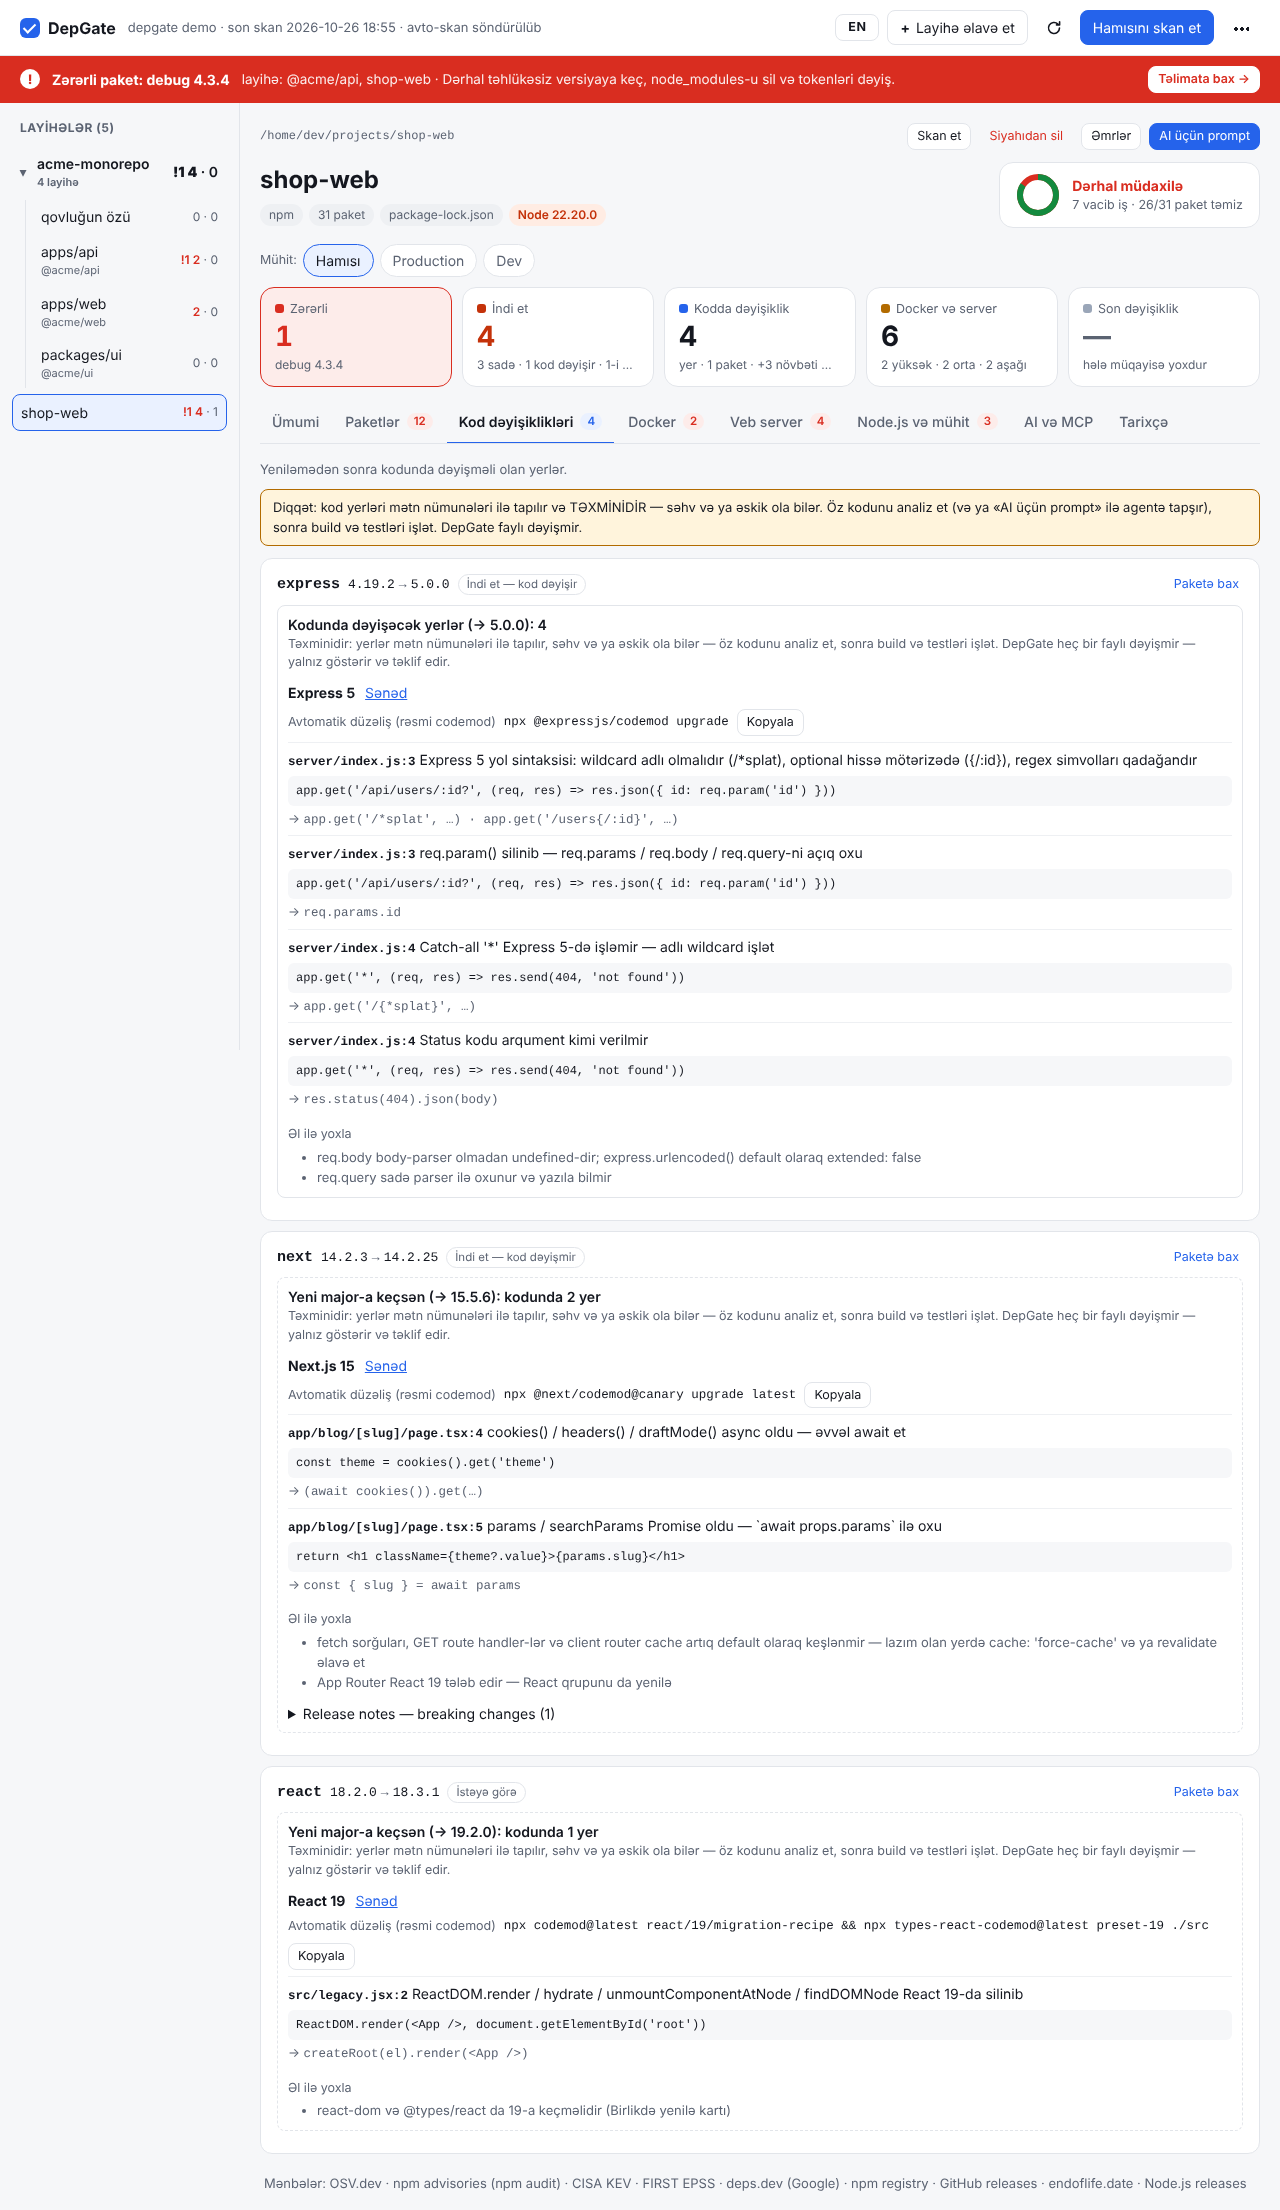
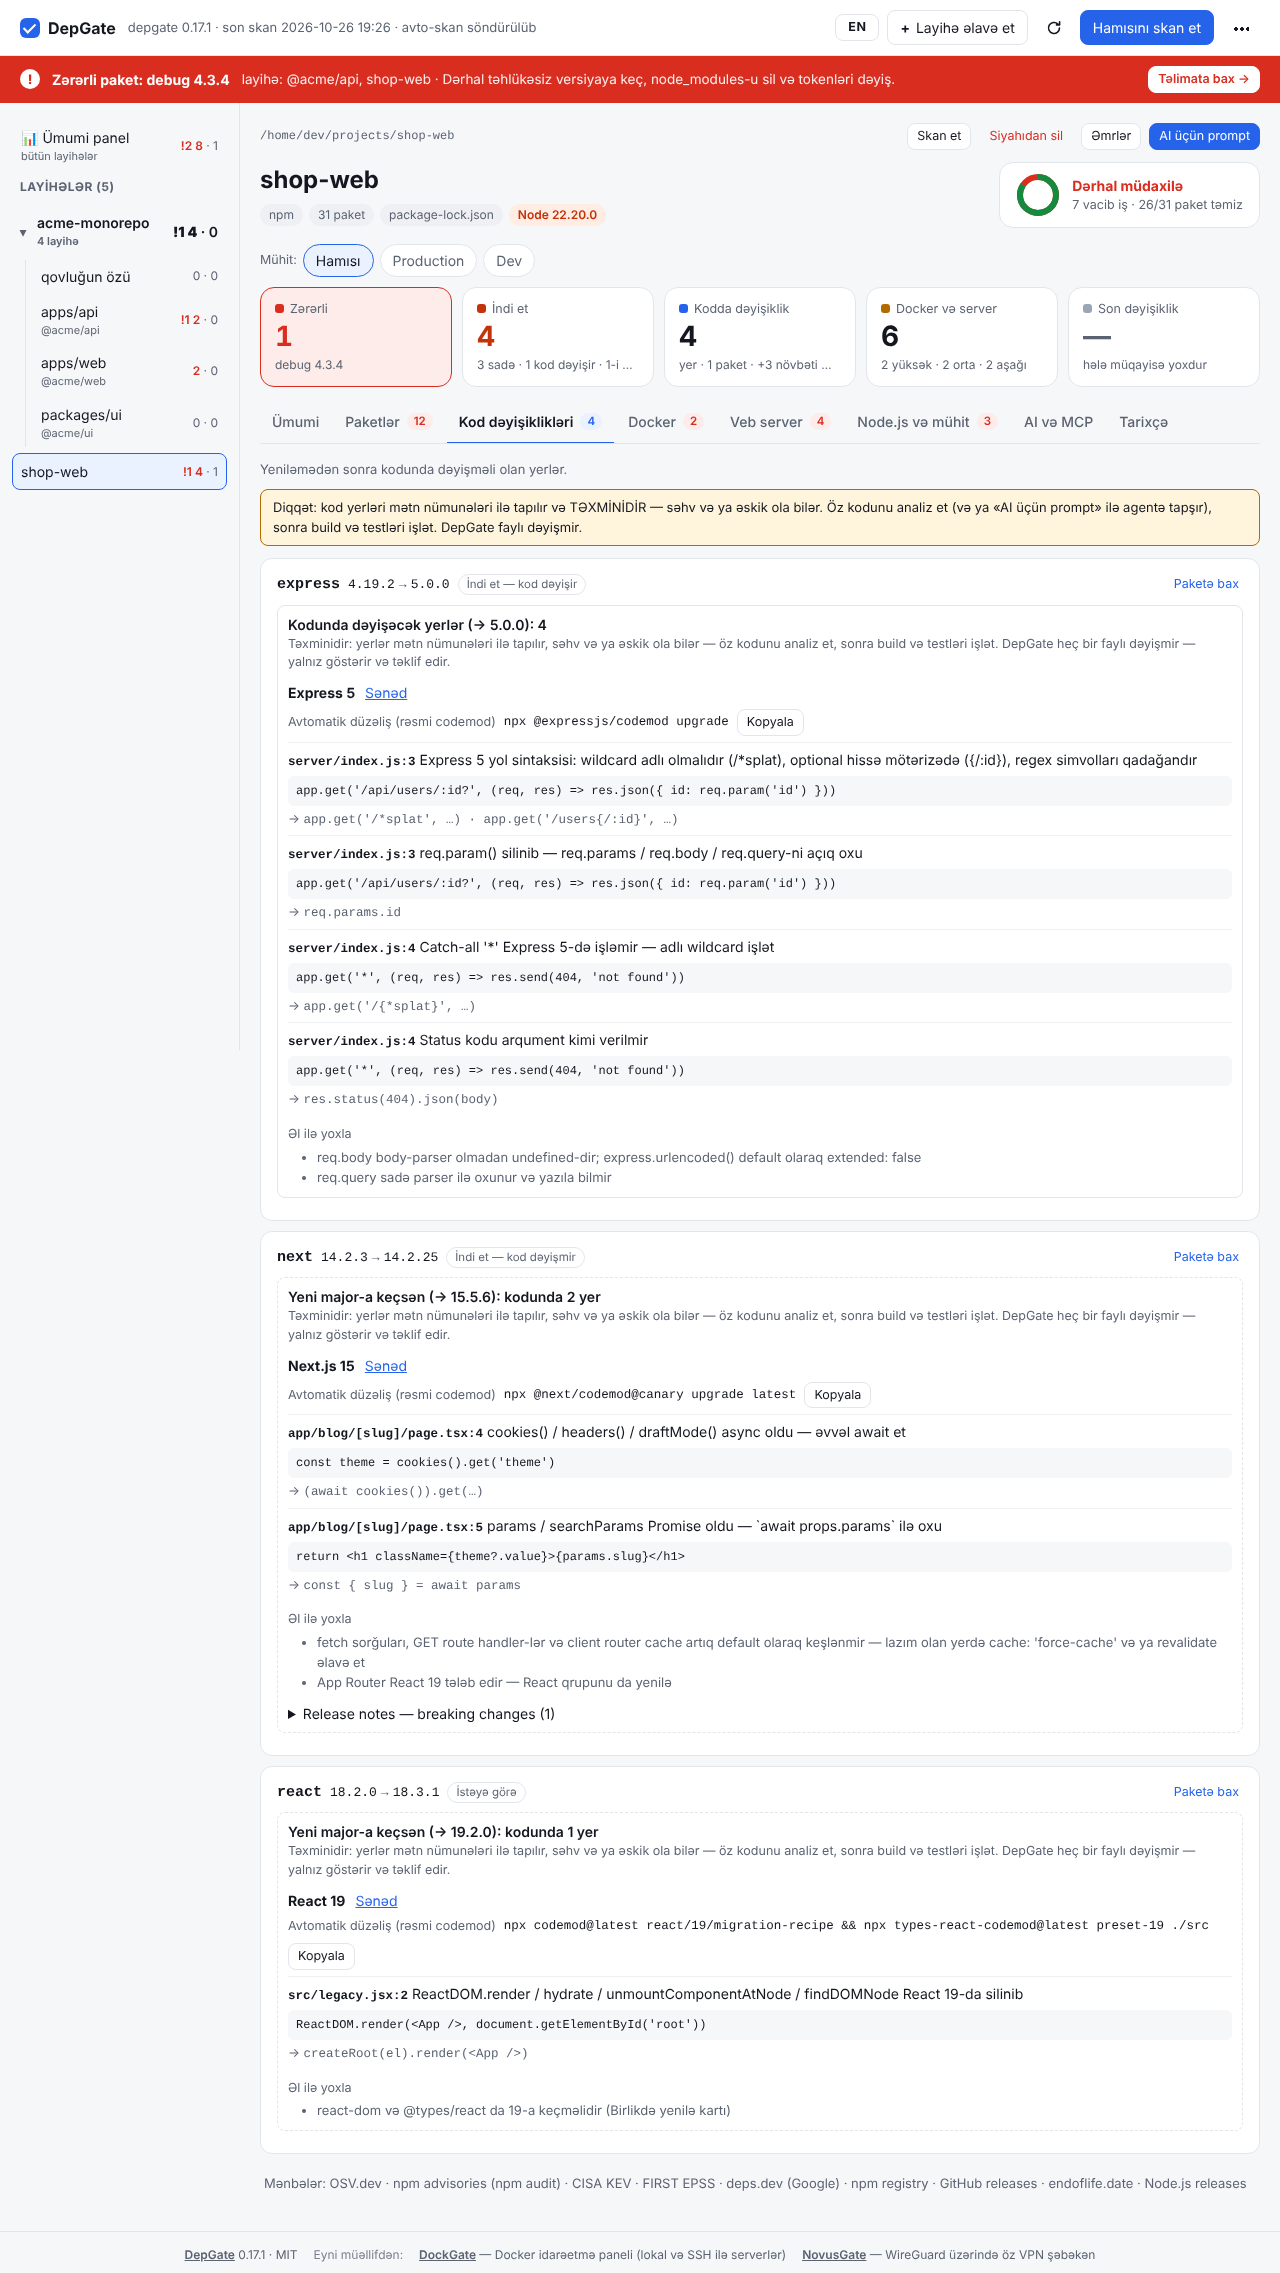
0.17.1: screenshots show the real version, not "demo"
The demo server used for the README screenshots now takes its version from
VERSION, like the real binary; the footer shows a version only when it is one.

Claude-Session: https://claude.ai/code/session_01RC5sxXsnmjCqEpypdegVQc

diff --git a/internal/web/ui/app.js b/internal/web/ui/app.js
@@ -823,7 +823,7 @@
   function renderFoot() {
     const a = (href, text) => el("a", { href, target: "_blank", rel: "noopener noreferrer" }, text);
     $("#appfoot").replaceChildren(
-      el("span", null, a(GH + "depgate", "DepGate"), st.version ? " " + st.version : "", " · MIT"),
+      el("span", null, a(GH + "depgate", "DepGate"), /^\d/.test(st.version || "") ? " " + st.version : "", " · MIT"),
       el("span", { class: "fsep" }, t("footMore")),
       el("span", null, a(GH + "dockgate", "DockGate"), " — ", t("footDock")),
       el("span", null, a(GH + "NovusGate", "NovusGate"), " — ", t("footNovus")));

diff --git a/internal/web/demo_test.go b/internal/web/demo_test.go
@@ -78,7 +78,12 @@ func TestServeDemo(t *testing.T) {
 	if err != nil {
 		t.Fatal(err)
 	}
-	m := &app.Manager{Store: st, Fetcher: func() sources.Fetcher { return f }, Opt: scan.Options{Version: "demo"}, Roots: []string{root}, Depth: 3}
+	// the screenshots show the version being released, as the real binary does
+	ver := "dev"
+	if b, err := os.ReadFile(filepath.Join("..", "..", "VERSION")); err == nil {
+		ver = strings.TrimSpace(string(b))
+	}
+	m := &app.Manager{Store: st, Fetcher: func() sources.Fetcher { return f }, Opt: scan.Options{Version: ver}, Roots: []string{root}, Depth: 3}
 	m.Start(context.Background())
 	port := 7795
 	if p := os.Getenv("DEPGATE_DEMO_PORT"); p != "" {
@@ -93,6 +98,6 @@ func TestServeDemo(t *testing.T) {
 	if err != nil {
 		t.Fatal(err)
 	}
-	ms := &mcp.Server{Store: st, Fetcher: func() sources.Fetcher { return f }, Opt: scan.Options{Version: "demo"}, Version: "demo", Roots: []string{root}}
+	ms := &mcp.Server{Store: st, Fetcher: func() sources.Fetcher { return f }, Opt: scan.Options{Version: ver}, Version: ver, Roots: []string{root}}
 	_ = http.Serve(ln, (&Server{Token: "demo-token-0123456789", B: m, Auth: au, MCP: ms.HTTPHandler()}).Handler())
 }
